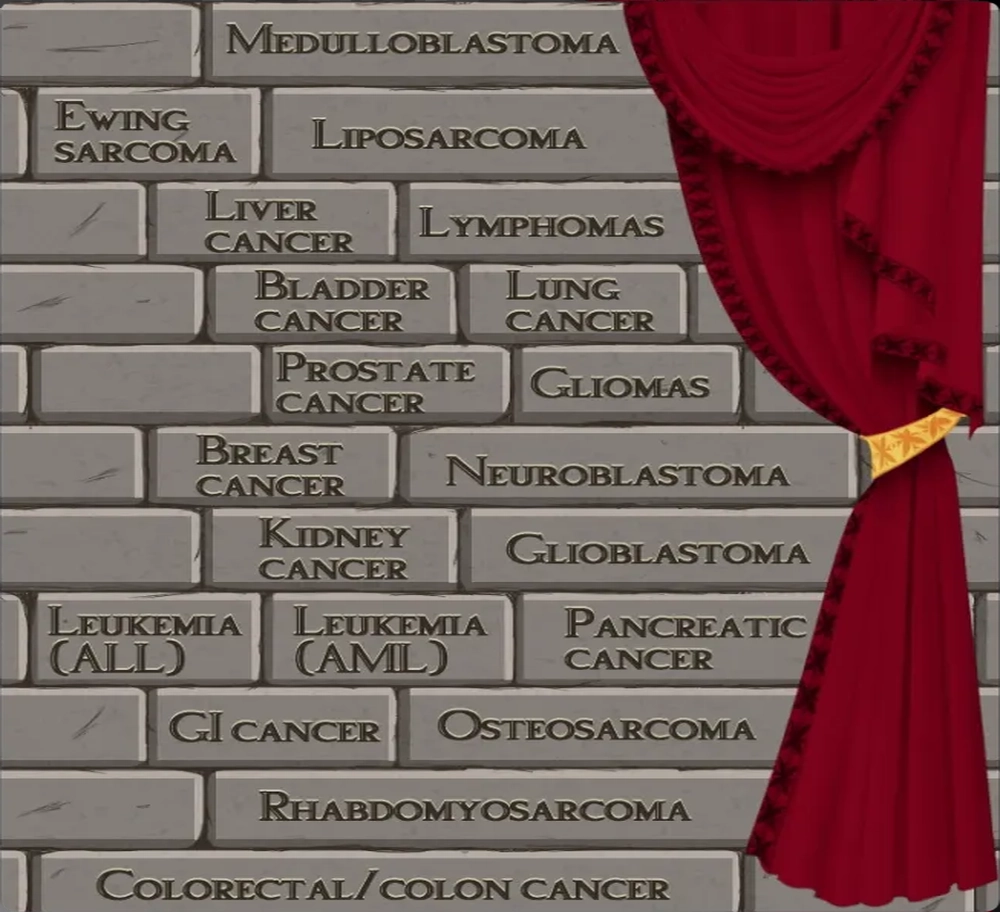
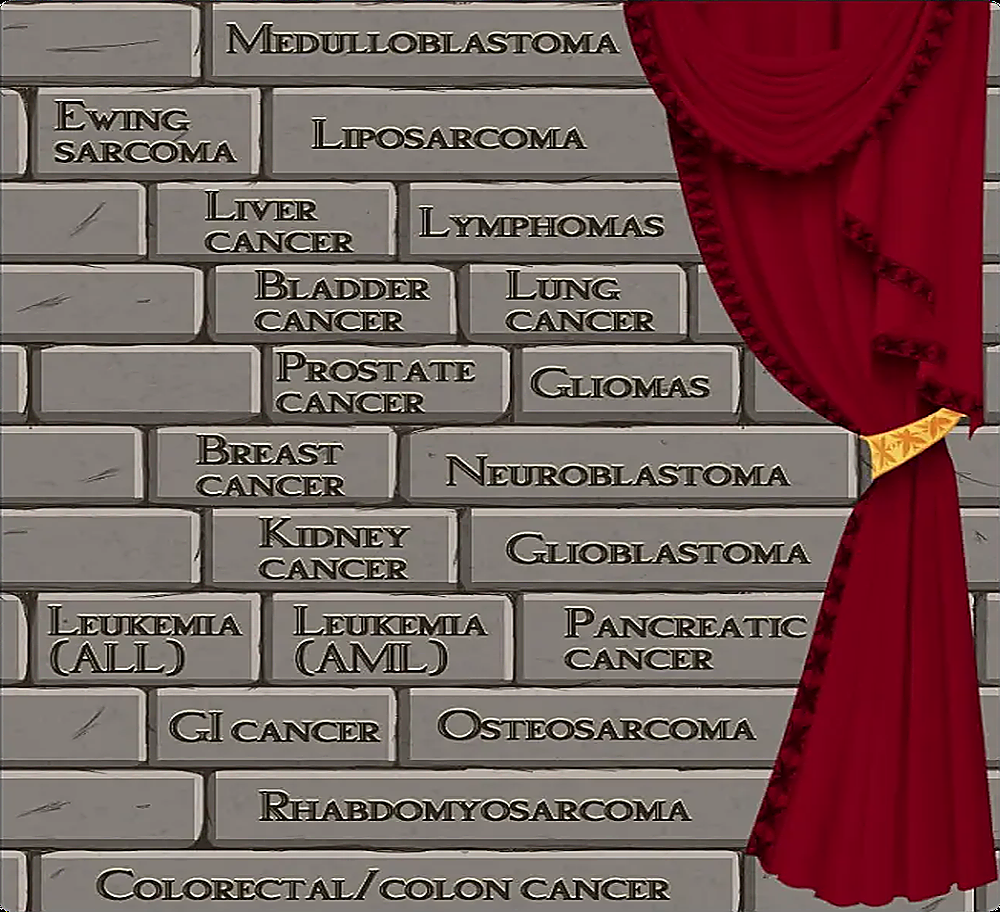
Fix navigation loop and right wall

Changed region(s): [[0.0, 0.0, 1.0, 1.0], [0.806, 0.9825, 0.93, 1.0], [0.0, 0.0, 0.093, 0.0307]]

diff --git a/script.js b/script.js
@@ -26,14 +26,16 @@ const soundVolume = document.getElementById("soundVolume");
 const modalCloseButtons = document.querySelectorAll(".modal-close");
 const modalActionButtons = document.querySelectorAll(".modal-action");
 
-const views = ["left", "front", "right"];
+const views = ["left", "front", "right", "back"];
 const viewAngles = {
   left: -90,
   front: 0,
   right: 90,
+  back: 180,
 };
 
 let currentViewIndex = 1;
+let currentRotationDeg = viewAngles[views[currentViewIndex]];
 let bubbleTimerId = null;
 let leftBubbleTimerId = null;
 let rightBubbleTimerId = null;
@@ -79,19 +81,24 @@ function applySoundState() {
 }
 
 function renderView() {
-  const view = views[currentViewIndex];
-  room.style.transform = `translate3d(-50%, -50%, 0) translateZ(var(--camera-z)) rotateY(${viewAngles[view]}deg)`;
+  room.style.transform = `translate3d(-50%, -50%, 0) translateZ(var(--camera-z)) rotateY(${currentRotationDeg}deg)`;
 }
 
 function turn(direction) {
   const delta = direction === "right" ? 1 : -1;
   currentViewIndex = (currentViewIndex + delta + views.length) % views.length;
+  currentRotationDeg += direction === "right" ? 90 : -90;
   renderView();
 }
 
 function goToView(viewName) {
   const nextIndex = views.indexOf(viewName);
   if (nextIndex === -1) return;
+  const normalizedCurrent = ((currentRotationDeg % 360) + 360) % 360;
+  const normalizedTarget = ((viewAngles[viewName] % 360) + 360) % 360;
+  let delta = ((normalizedTarget - normalizedCurrent + 540) % 360) - 180;
+  if (delta === -180) delta = 180;
+  currentRotationDeg += delta;
   currentViewIndex = nextIndex;
   renderView();
 }
